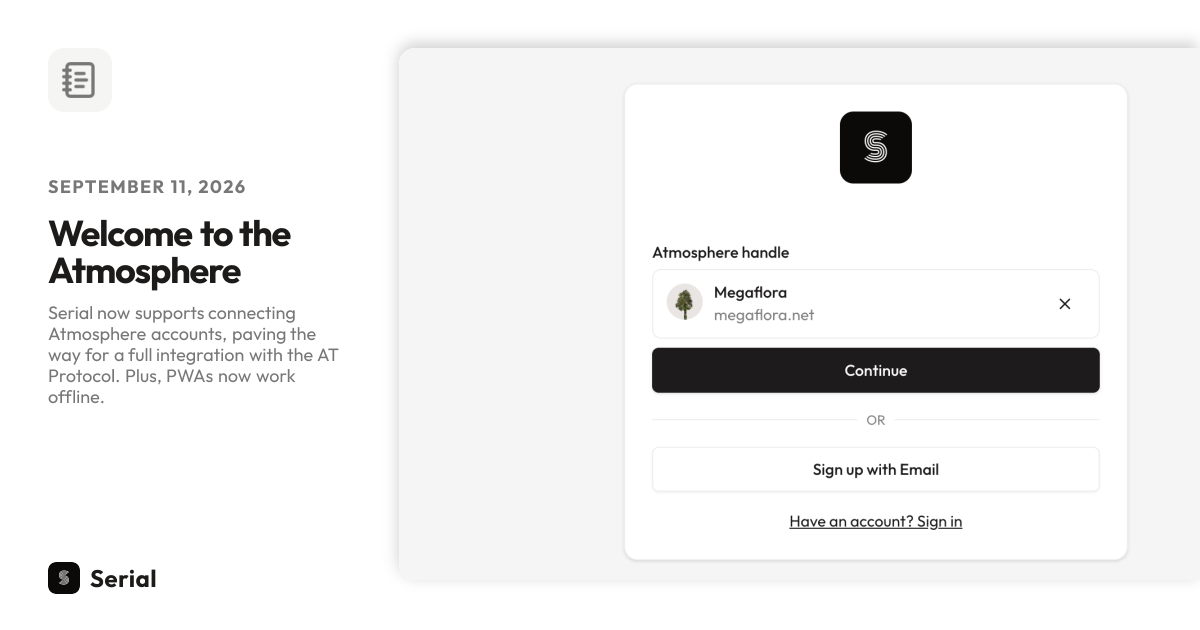
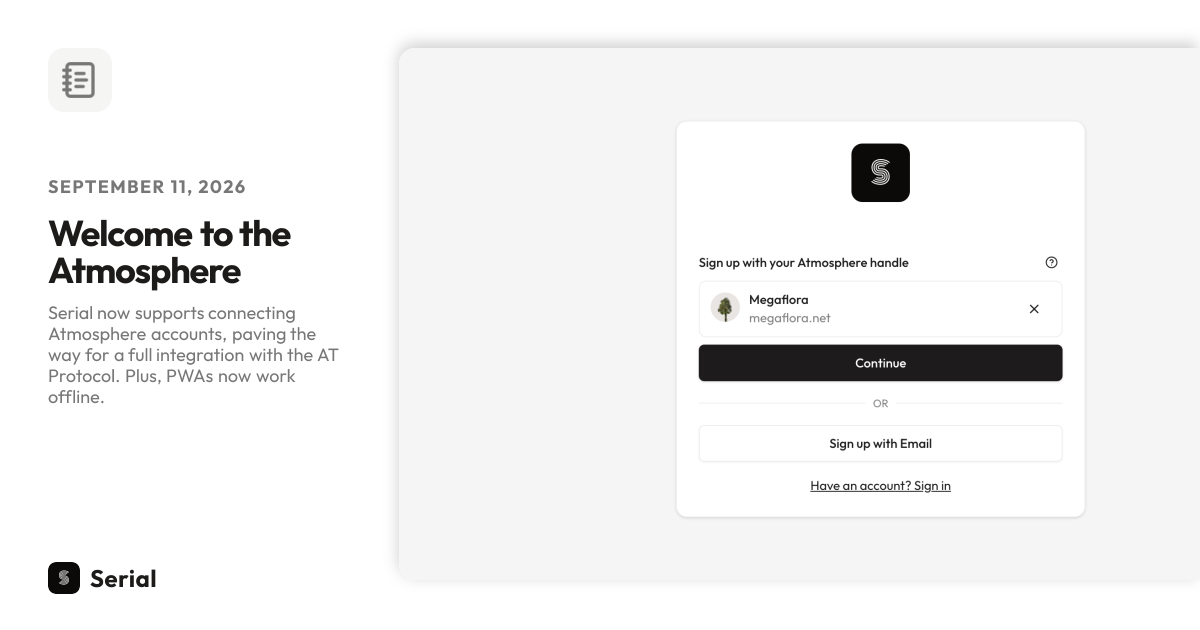
Update atmosphere demo images

diff --git a/apps/www/src/content/releases/2026-09-11.md b/apps/www/src/content/releases/2026-09-11.md
@@ -3,7 +3,7 @@ title: "Welcome to the Atmosphere"
 publish_date: "2026-09-11"
 public: true
 description: "Serial now supports connecting Atmosphere accounts, paving the way for a full integration with the AT Protocol. Plus, PWAs now work offline."
-og_screenshot: "releases/2026-09-01/atmosphere-connect-sign-up"
+og_screenshot: "releases/2026-09-11/serial-auth-atmosphere-connect"
 ---
 ## Login with (or connect to) the Atmosphere
 
@@ -13,11 +13,11 @@ One of the first benefits you may notice with the Atmosphere is that it gives yo
 
 As of today, users can now sign up to Serial with their Atmosphere account:
 
-![A screenshot of the Atmosphere connection in sign up, showing the Megaflora account](../../media/releases/2026-09-01/atmosphere-connect-sign-up.png)
+![A screenshot of the Atmosphere connection in sign up, showing the Megaflora account](../../media/releases/2026-09-11/serial-auth-atmosphere-connect.png)
 
 Also, existing users can link an Atmosphere account to their current account, allowing them to sign in with that Atmosphere account in the future:
 
-![A screenshot of the Atmosphere connection dialog, showing the Megaflora account](../../media/releases/2026-09-01/atmosphere-connect-in-app.png)
+![A screenshot of the Atmosphere connection dialog, showing the Megaflora account](../../media/releases/2026-09-11/serial-connection-atmosphere-connect.png)
 
 There’s a lot more to appreciate about the Atmosphere that there’s not time to get into here. If you’re curious, take a look at [this blog post](https://bnb.im/posts/atproto-essential-resources/) for some introductory resources; they may be a bit technical, but the first suggested explainers from Dan Abramov should be approachable enough to anyone who feels at home on a computer.
 
